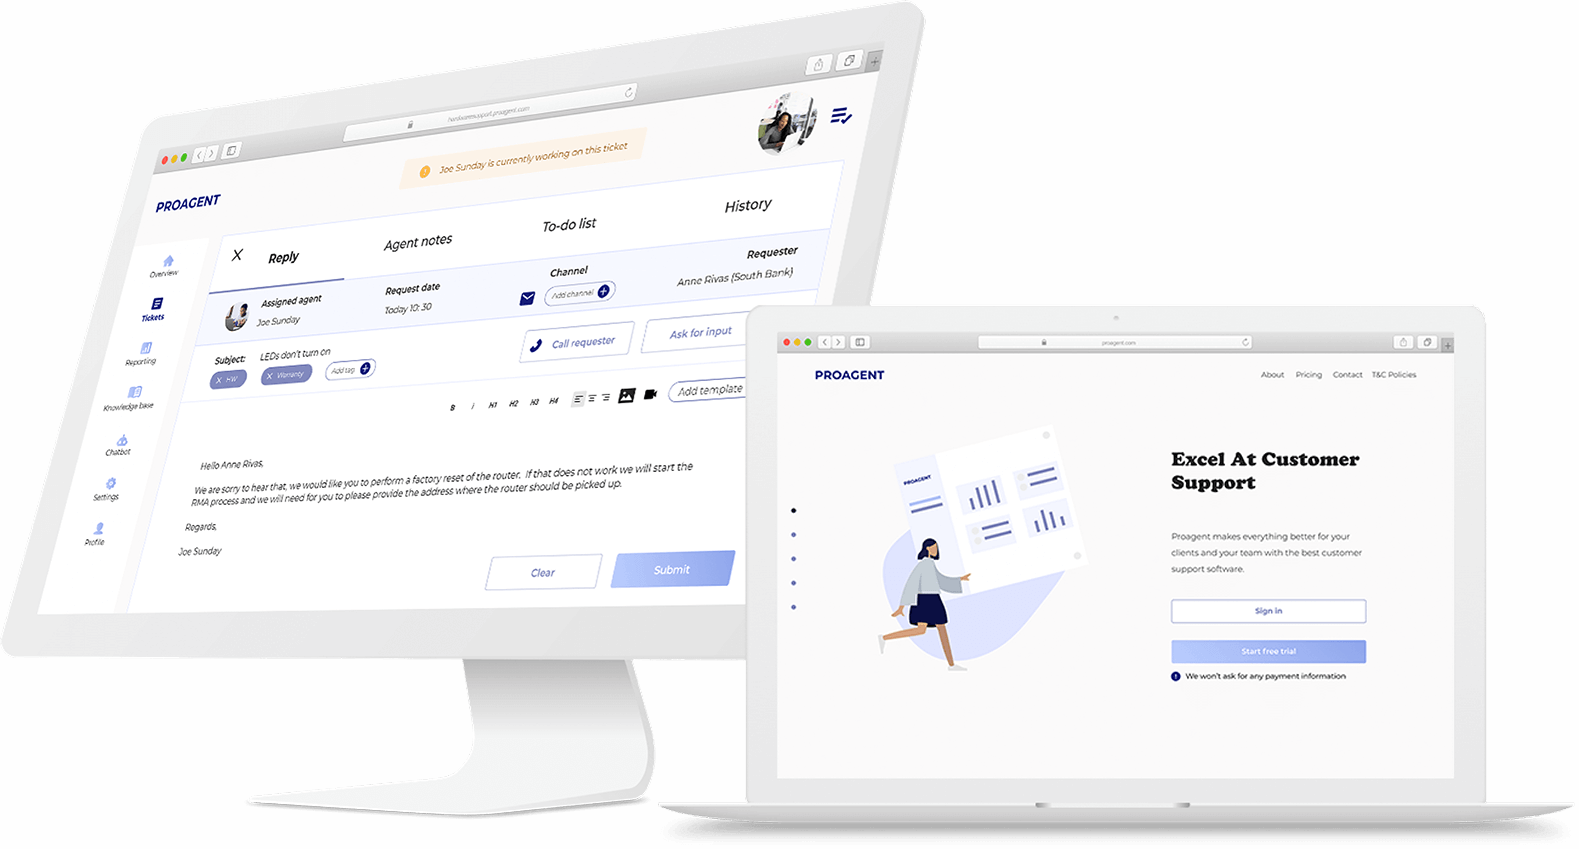
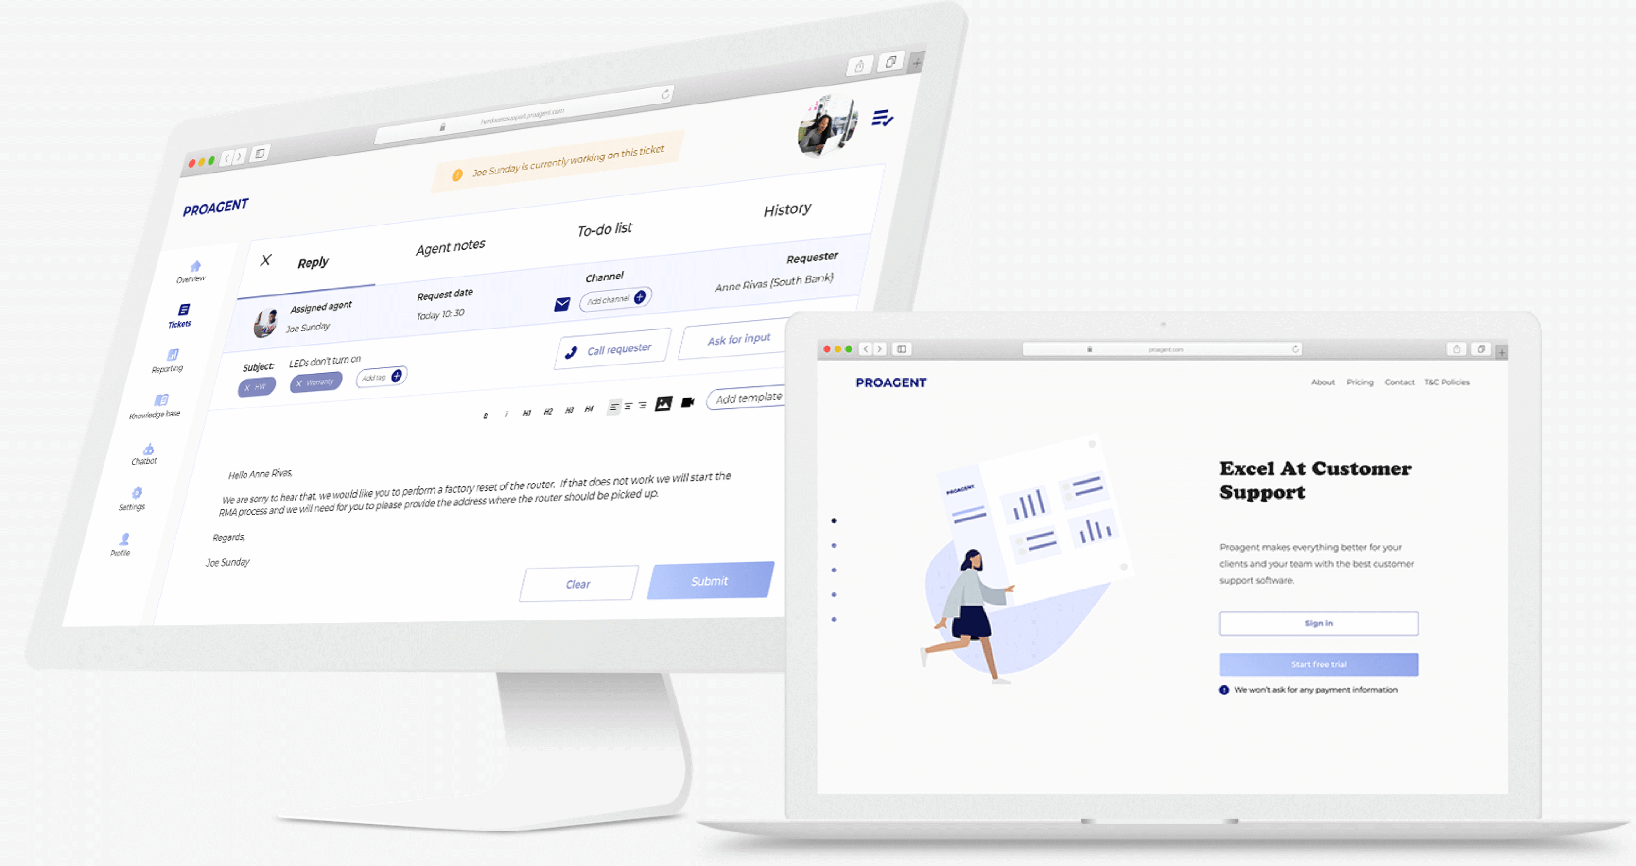
update images

diff --git a/styles/proagent.css b/styles/proagent.css
@@ -1596,7 +1596,7 @@ ul.project-lists-outcomes li::before { /*::before creates a pseudo-element that 
 }
 
 .testing-desktop-image {
-    width: 80%;
+    width: 50%;
     margin: 0 auto;
 }
 
